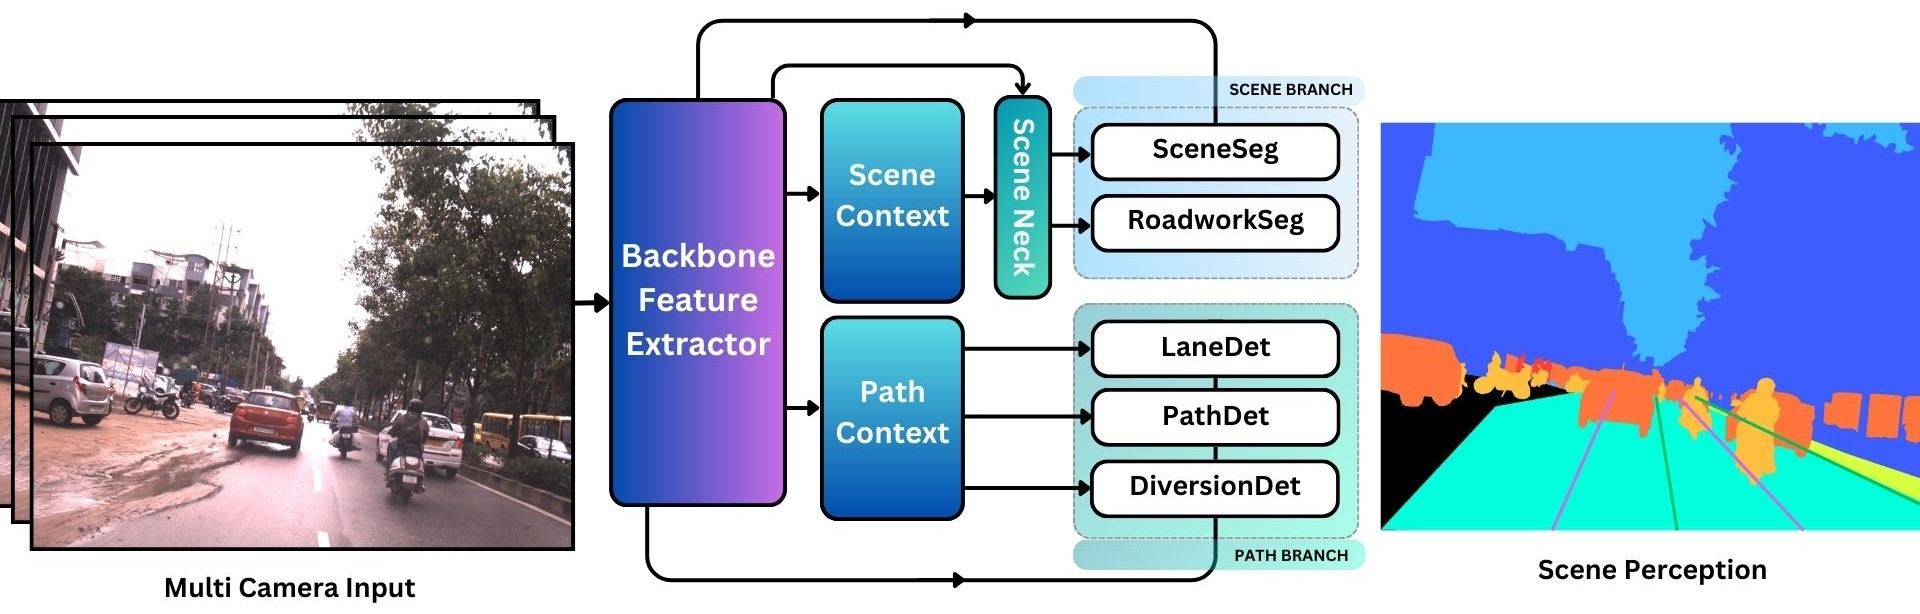
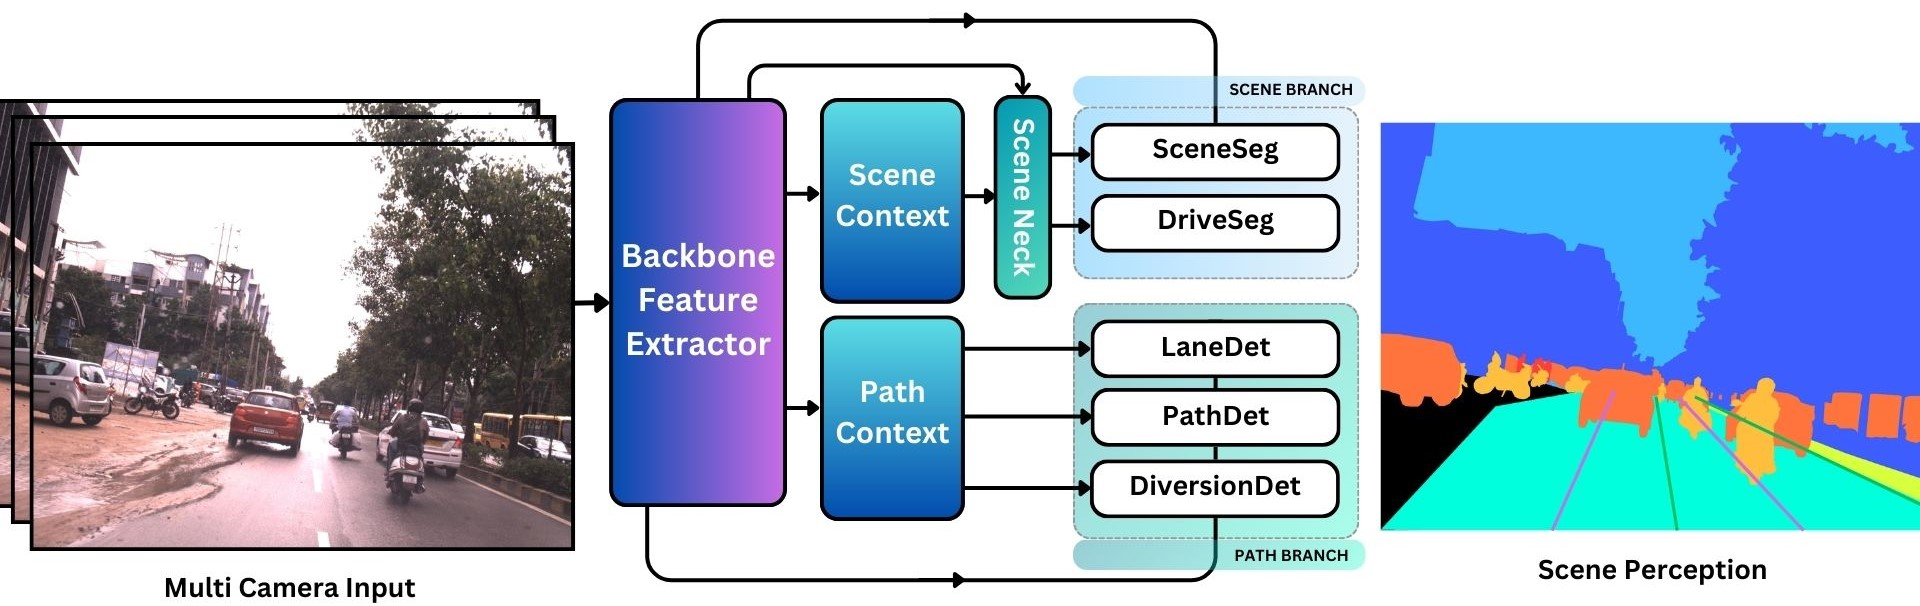
updating AutoSeg diagram and README

diff --git a/README.md b/README.md
@@ -7,7 +7,7 @@ AutoSeg has been hardened by training on a diverse set of real-world image data 
 
 By following an ensemble-of-experts approach, AutoSeg is able to learn generalizble features that are adaptable to out-of-domain scenarios and can facilitate multiple downstream perceptual tasks such as semantic object segmentation, lane perception, and even end-to-end autonomous driving. Furthermore, each neural expert can be independently refined and fine-tuned with additional data allowing for a richer representation of edge-case scenarios which are challenging to capture in a single predictor model.
 
-The current AutoSeg release comprises 6 perceptual tasks performed by different sub-network experts, these include: SceneSeg, ObjectSeg, RoadworkSeg, LaneDet, PathDet, and DiversionDet.
+The current AutoSeg release comprises 5 perceptual tasks performed by different sub-network experts, these include: SceneSeg, DriveSeg, LaneDet, PathDet, and DiversionDet.
 
 ![Autoseg Network Diagram](Diagrams/AutoSeg.jpg)
 
